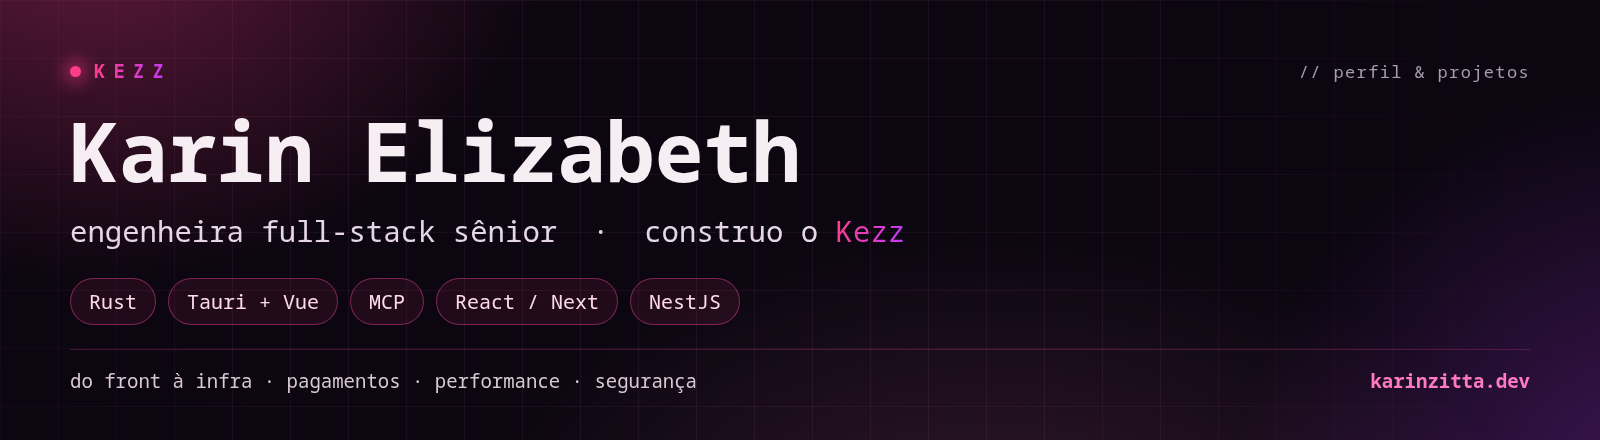
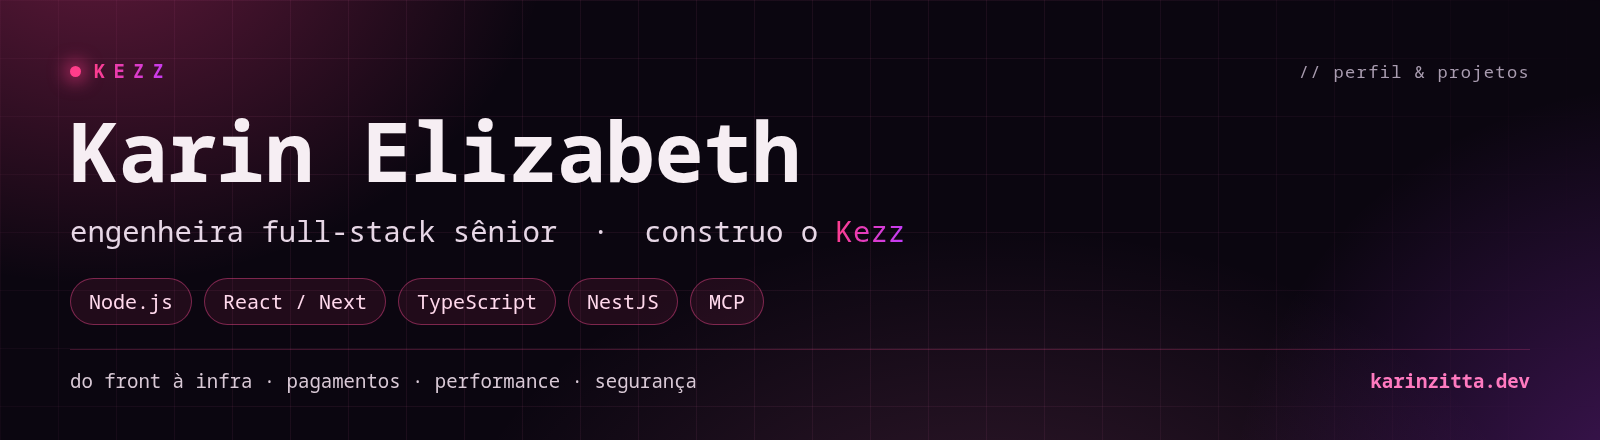
docs: prioritize Node.js over Rust

Changed region(s): [[0.0625, 0.6205, 0.4688, 0.7386]]

diff --git a/README.md b/README.md
@@ -19,27 +19,28 @@ Cinco anos escrevendo software que vai pra produção — do front à infra. Gos
 O **Kezz** nasceu de um incômodo: a IA estava presa num lugar só. É um ecossistema onde a IA é a integração e trabalha por mim.
 
 - **Kezz Board** — fala MCP. A IA cria nota, tarefa, coluna, cartão e seta sozinha.
-- **Servidor em Rust** — conta, sessão, sync e deploy.
+- **Backend e auth** — conta, sessão, sync e deploy.
 - **DNS e ameaças** — servidor próprio alimentando o dashboard.
 - **Fala com todos os apps** — memória, ferramentas, e me avisa no chat quando termina trabalho autônomo. Controla o telefone e os notebooks.
 
-Stack: **Rust · Tauri + Vue · MCP · SQLite**.
+Stack: **Node.js · TypeScript · Vue · Tauri · MCP · SQLite**.
 
 ### stack
 
 <p>
-  <img src="https://img.shields.io/badge/Rust-ff3d8a?style=flat-square&logo=rust&logoColor=white&labelColor=0b0610">
+  <img src="https://img.shields.io/badge/Node.js-ff3d8a?style=flat-square&logo=nodedotjs&logoColor=white&labelColor=0b0610">
   <img src="https://img.shields.io/badge/TypeScript-ff3d8a?style=flat-square&logo=typescript&logoColor=white&labelColor=0b0610">
+  <img src="https://img.shields.io/badge/NestJS-ff3d8a?style=flat-square&logo=nestjs&logoColor=white&labelColor=0b0610">
   <img src="https://img.shields.io/badge/React-ff3d8a?style=flat-square&logo=react&logoColor=white&labelColor=0b0610">
   <img src="https://img.shields.io/badge/Next.js-ff3d8a?style=flat-square&logo=nextdotjs&logoColor=white&labelColor=0b0610">
   <img src="https://img.shields.io/badge/Vue-ff3d8a?style=flat-square&logo=vuedotjs&logoColor=white&labelColor=0b0610">
-  <img src="https://img.shields.io/badge/NestJS-ff3d8a?style=flat-square&logo=nestjs&logoColor=white&labelColor=0b0610">
-  <img src="https://img.shields.io/badge/Python-ff3d8a?style=flat-square&logo=python&logoColor=white&labelColor=0b0610">
   <img src="https://img.shields.io/badge/PostgreSQL-ff3d8a?style=flat-square&logo=postgresql&logoColor=white&labelColor=0b0610">
   <img src="https://img.shields.io/badge/AWS-ff3d8a?style=flat-square&logo=amazonaws&logoColor=white&labelColor=0b0610">
-  <img src="https://img.shields.io/badge/Tauri-ff3d8a?style=flat-square&logo=tauri&logoColor=white&labelColor=0b0610">
   <img src="https://img.shields.io/badge/Docker-ff3d8a?style=flat-square&logo=docker&logoColor=white&labelColor=0b0610">
+  <img src="https://img.shields.io/badge/Python-ff3d8a?style=flat-square&logo=python&logoColor=white&labelColor=0b0610">
   <img src="https://img.shields.io/badge/Linux-ff3d8a?style=flat-square&logo=linux&logoColor=white&labelColor=0b0610">
+  <img src="https://img.shields.io/badge/Tauri-ff3d8a?style=flat-square&logo=tauri&logoColor=white&labelColor=0b0610">
+  <img src="https://img.shields.io/badge/Rust-ff3d8a?style=flat-square&logo=rust&logoColor=white&labelColor=0b0610">
 </p>
 
 ### em que sou boa
